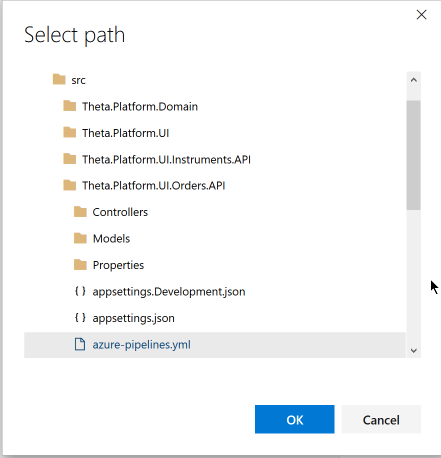
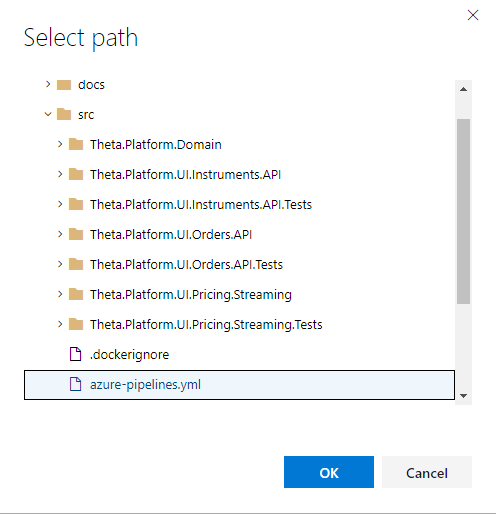
PD-19: Document extra manual steps required for service pipelines.  Note issue with using build variables in trigger paths.

diff --git a/docs/Azure-DevOps-Pipelines.md b/docs/Azure-DevOps-Pipelines.md
@@ -26,10 +26,18 @@ Sadly that's not the case, so here's a guide on how to get the pipeline showing 
 - ![Step 4](.attachments/img-create-pipeline/step-4.png "")
 
 ### Step 5: Navigate to and select the path in which your `azure-pipelines.yml` resides
+Note that for service pipelines there is a shared generic pipeline yml in the src folder.
 - ![Step 5](.attachments/img-create-pipeline/step-5.png "")
 
 ### Step 6: Enter a name for the pipeline and ensure the path is correct
 - ![Step 6](.attachments/img-create-pipeline/step-6.png "")
+
+### Step 6A: If creating a service pipeline, create the necessary build variables
+- ![Step 6a](.attachments/img-create-pipeline/step-6a.png "")
+
+### Step 6B: If creating a service pipeline, add the triggers manually
+At the time of writing build variables in trigger paths do not seem to be working.  A [GitHub issue](https://github.com/MicrosoftDocs/vsts-docs/issues/2691) has been raised for this.
+- ![Step 6b](.attachments/img-create-pipeline/step-6b.png "")
 
 ### Step 7: Save and queue your first build
 - ![Step 7](.attachments/img-create-pipeline/step-7.png "")
